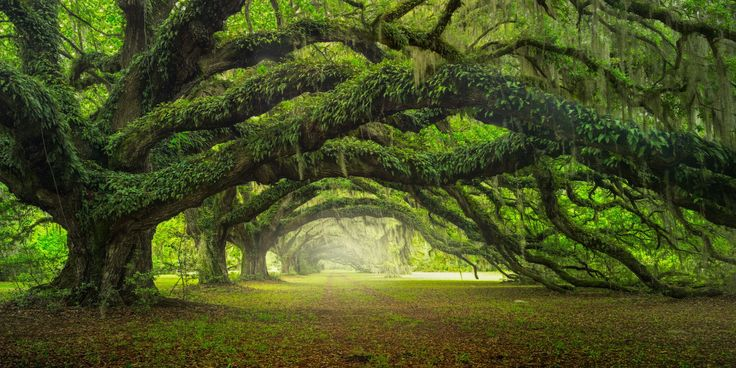
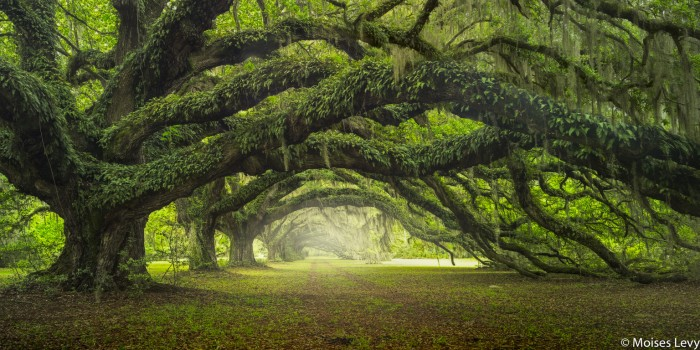
attribute photo properly

diff --git a/content/post/difftree.md b/content/post/difftree.md
@@ -19,7 +19,7 @@ p.dt {
 }
 </style>
 
-![Front image](/post/difftree/intro.jpg "Similar trees next to each other.")
+![Front image](/post/difftree/intro.jpg "Old Trees, copyright (c) 2015 by Moises Levy, http://www.moiseslevy.com/Old%20Trees")
 
 ## Introduction
 
@@ -511,8 +511,9 @@ Even if you don't plan to implement your own version of Git, I hope that
 understanding the challenges and the proposed solutions at a conceptual level
 will help you solve similar problems in the future.
 
-**P.S.** The trees in the photo are oaks at Dixie Plantation, South
-Carolina, USA.  I don't know who took the photo.
+**P.S.** The trees in the photo are oaks at Dixie Plantation, South Carolina,
+USA.  The photo is called "[Old Trees](http://www.moiseslevy.com/Old%20Trees)"
+copyright (c) 2015 by Moises Levy.
 
 **P.P.S.** Thanks to my reviewers, Miguel Molina and Vadim Markovtsev for their
 suggestions, proper English and clean code; the broken English and the
